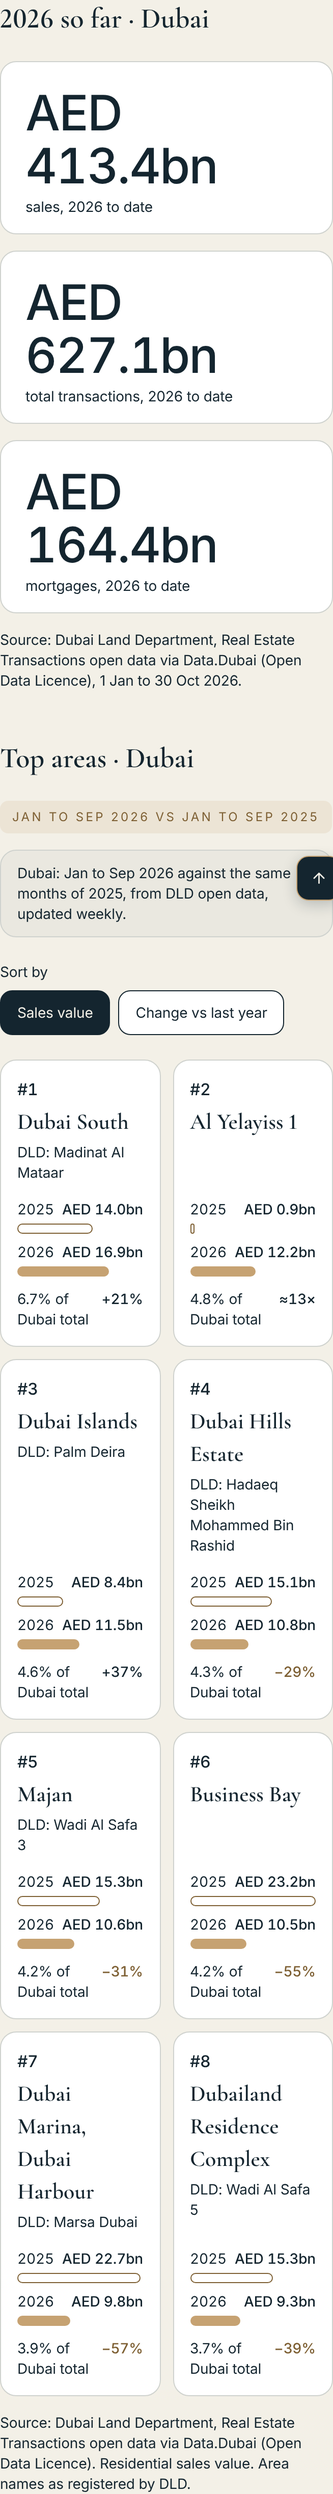
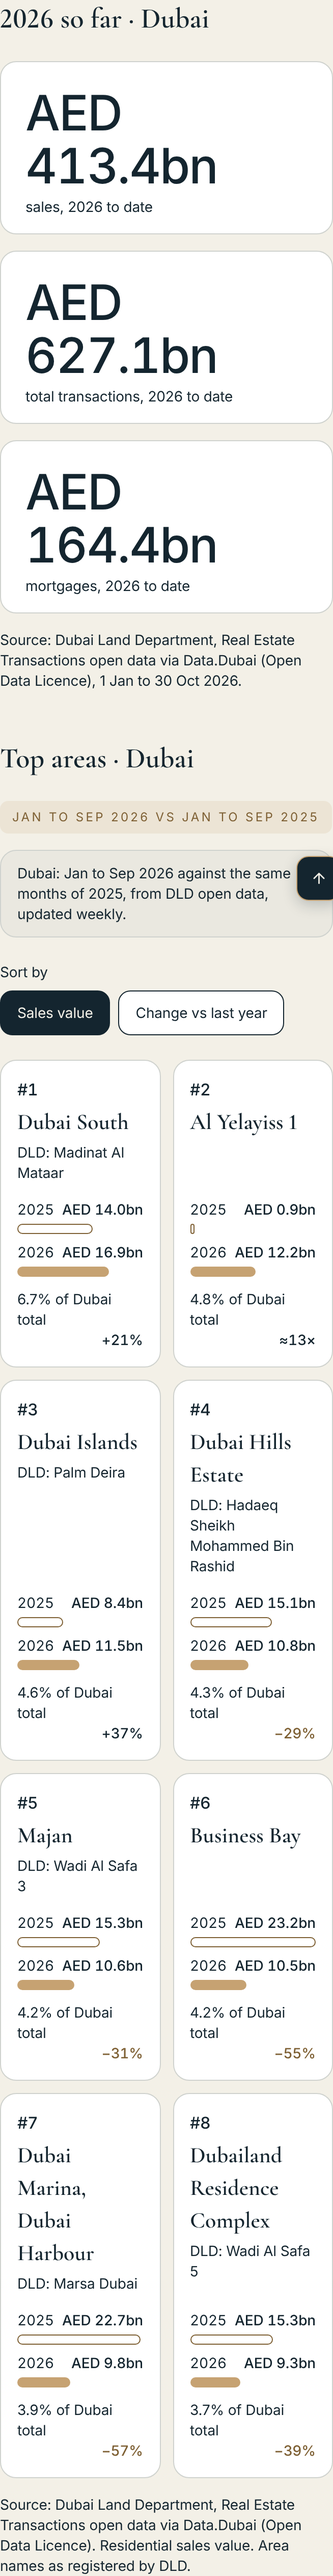
fix(site): card footer stacks when share and change do not fit one line
Coordinator review 3, 2026-11-07 (layout only, no copy change).

- The footer wraps per card from its own text: the share text keeps
  its one-line width and the change sits beside it, right-aligned, when
  both fit; otherwise the change moves to its own line below, still
  right-aligned, and the share text takes the full width (wrapping only
  when it is wider than the card). Desktop cards stay on one line.
- charts.e2e: at 320, 375 and 414 the share text is at most 2 lines,
  one line when the change is beside it, and a change below is
  right-aligned (fails on the previous layout: 3 to 5 lines).
- Screenshots: /areas Dubai and Abu Dhabi, both sorts, at 375.

Claude-Session: https://claude.ai/code/session_015pNCMgX6oo7DsZghVwMfQc

diff --git a/site/src/styles/data-card.css b/site/src/styles/data-card.css
@@ -60,9 +60,12 @@
   .dc-bar { grid-column: 1 / -1; grid-row: 2; width: calc(100% * var(--f, 0)); }
 }
 
-.dc-foot { display: flex; align-items: baseline; justify-content: space-between; gap: var(--space-3); margin-top: var(--space-3); font-size: var(--fs-small); line-height: var(--lh-small); letter-spacing: var(--ls-small); }
-.dc-foot > span:first-child { min-width: 0; }
-.dc-change { font-weight: 500; font-variant-numeric: tabular-nums; white-space: nowrap; }
+/* Card footer (Coordinator review 3): share text left, change right, on one line when both fit at the share text's own
+   one-line width. When they do not, the change moves to its own line, right-aligned, and the share text takes the full
+   width (wrapping only if it is wider than the card itself). Flex wrapping decides per card, from its own text. */
+.dc-foot { display: flex; flex-wrap: wrap; align-items: baseline; justify-content: space-between; gap: 0 var(--space-3); margin-top: var(--space-3); font-size: var(--fs-small); line-height: var(--lh-small); letter-spacing: var(--ls-small); }
+.dc-foot > span:first-child { flex: 1 1 auto; }
+.dc-change { margin-left: auto; text-align: right; font-weight: 500; font-variant-numeric: tabular-nums; white-space: nowrap; }
 .dc-rise, .dc-flat, .dc-none { color: var(--ink); }
 .dc-fall { color: var(--brass-deep); }
 .dc-src { font-size: var(--fs-small); line-height: var(--lh-small); letter-spacing: var(--ls-small); color: var(--ink); margin: var(--space-4) 0 0; }
